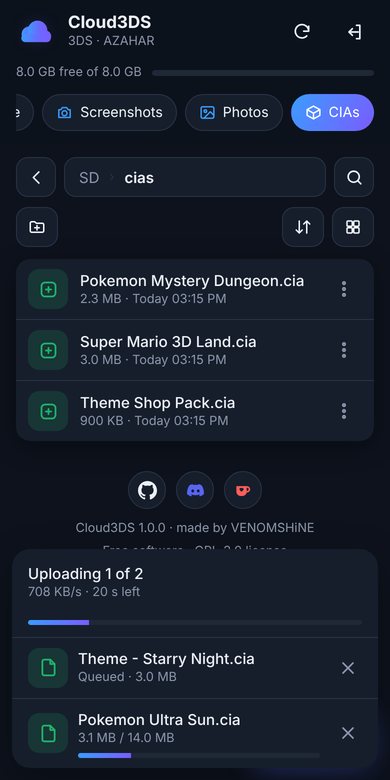
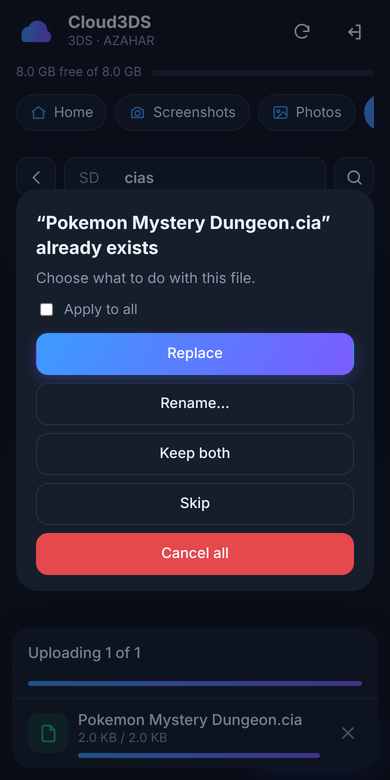
README: funciones y capturas de la 1.1.0
Añade al README las funciones nuevas (actualizaciones, copiar y mover,
conflictos, carpetas destacadas y del sistema, nombre real de los
dispositivos, QR minimizable), los controles nuevos (SELECT, X en
Dispositivos), los paquetes de devkitPro que hacen falta ahora y los
archivos nuevos del código. Capturas rehechas en inglés con la 1.1.0; la de
Actividad se cambia por la del QR minimizado durante una subida.

diff --git a/README.md b/README.md
@@ -7,18 +7,18 @@
 <a href='https://ko-fi.com/W3A028X2KV' target='_blank'><img height='36' style='border:0px;height:36px;' src='https://storage.ko-fi.com/cdn/kofi3.png?v=6' border='0' alt='Buy Me a Coffee at ko-fi.com' /></a>
 
 <p align="center">
-  <img src="docs/inicio.png" width="260" alt="Pantalla de inicio con el QR, la dirección y el PIN">
+  <img src="docs/inicio.png" width="260" alt="Pantalla de inicio con el QR, la dirección, el PIN y la actividad">
   <img src="docs/subida.png" width="260" alt="Subida en curso vista en la consola">
-  <img src="docs/actividad.png" width="260" alt="Actividad">
+  <img src="docs/minimizado.png" width="260" alt="El QR minimizado con SELECT y la subida a lo ancho">
 </p>
 <p align="center">
-  <img src="docs/dispositivos.png" width="260" alt="Dispositivos conectados">
+  <img src="docs/dispositivos.png" width="260" alt="Dispositivos con su nombre real">
   <img src="docs/ajustes.png" width="260" alt="Ajustes">
   <img src="docs/acerca.png" width="260" alt="Acerca de, con el QR del Discord">
 </p>
 <p align="center">
-  <img src="docs/web-movil.png" width="200" alt="La SD en el móvil, con las carpetas del sistema protegidas">
-  <img src="docs/web-subidas.png" width="200" alt="Subidas desde el móvil">
+  <img src="docs/web-movil.png" width="200" alt="La SD en el móvil, con carpetas destacadas y las del sistema aparte">
+  <img src="docs/web-subidas.png" width="200" alt="Qué hacer si un archivo ya existe">
 </p>
 
 ## Descargar e instalar
@@ -43,20 +43,25 @@ Necesitas una consola con homebrew (por ejemplo, con [3ds.hacks.guide](https://3
 3. **Desde el PC:** escribe en el navegador la dirección que aparece (por ejemplo `192.168.1.34`) y el **PIN** de 4 cifras.
 4. Listo: navega, sube, descarga y organiza. Cada dispositivo queda recordado; la próxima vez entra solo.
 
+**Actualizaciones:** Cloud3DS busca versiones nuevas al abrirse. Cuando haya una, ve a **Ajustes → Actualizaciones** y pulsa **Actualizar**: la descarga, comprueba que es el archivo original y la instala, sin FBI ni cables.
+
 El móvil o el PC tienen que estar en **la misma red** que la consola. En algunas Wi-Fi públicas los dispositivos no se pueden ver entre sí; ahí no funcionará. Todo se queda en tu red: nada pasa por Internet.
 
 ## Funciones
 
 - **Conectar en un segundo:** QR en la consola para el móvil y dirección + PIN para el PC. El PIN es siempre el mismo para que te lo aprendas; puedes elegir el tuyo o pedir uno al azar en Ajustes. Tras varios intentos fallidos se bloquea un rato.
-- **Dispositivos recordados:** los ves en la consola, con quién está conectado ahora, y puedes **expulsar** a cualquiera; en su navegador aparece al momento que lo desconectaron.
-- **Explorador de la SD** en el navegador: accesos rápidos a **Capturas** (Luma), **Fotos** (cámara), **CIAs**, **Homebrew** y **Partidas** (Checkpoint); lista o cuadrícula con miniaturas; búsqueda y orden por nombre, fecha o tamaño.
-- **Subir arrastrando** archivos sueltos o carpetas enteras, con cola, progreso, velocidad y tiempo restante. Si algo ya existe, eliges **reemplazar**, **conservar ambos** u **omitir**.
-- **Carpeta anterior**, ruta siempre visible y **búsqueda** que se despliega desde la lupa.
+- **Dispositivos con su nombre real:** la consola lo pregunta a la red («Marios-iPhone», «DESKTOP-MARIO»), y si no lo encuentra se ve el modelo («iPhone · Safari»). Puedes renombrarlos desde la consola o desde la web, ver quién está conectado y **desvincular** a cualquiera; en su navegador aparece al momento.
+- **Explorador de la SD** en el navegador: accesos rápidos a **Capturas** (Luma), **Fotos** (cámara), **CIAs**, **Homebrew** y **Partidas** (las copias de Checkpoint o JKSM); lista o cuadrícula con miniaturas; búsqueda y orden por nombre, fecha o tamaño.
+- **Carpetas destacadas:** marca cualquier carpeta con uno de seis colores para encontrarla enseguida; sale la primera. Las **carpetas del sistema** van aparte, en su propio grupo plegable.
+- **Subir arrastrando** archivos sueltos o carpetas enteras, con cola, progreso, velocidad y tiempo restante.
+- **Copiar y mover** archivos y carpetas dentro de la SD, también varios a la vez, eligiendo el destino en un selector de carpetas.
+- **Si algo ya existe**, eliges: **reemplazar** (o **combinar**, si es una carpeta), **renombrar**, **conservar ambos**, **omitir** o **cancelar todo**, y puedes aplicarlo a todos de una vez.
 - **Descargar** archivos y ver **fotos** (deslizando entre ellas), **vídeos** y **textos** directamente en el navegador.
 - **Crear carpetas, renombrar y borrar**, también varios a la vez.
 - **Seguro por defecto:** modo **solo lectura** y **carpetas del sistema protegidas** (`Nintendo 3DS`, `3ds`, `luma`, `boot.firm`…): llevan un candado y no se pueden borrar ni renombrar mientras la protección esté activa.
-- **Sin sorpresas:** las subidas se escriben en un temporal y solo se guardan al terminar; si se corta la conexión, no quedan archivos a medias. Avisa si no hay espacio o si el archivo pasa de 4 GB (límite de FAT32).
-- **En la consola:** el QR, la dirección y el PIN siempre a la vista, con las transferencias en directo al lado. Pestañas de **Actividad**, **Dispositivos** y **Ajustes**; en «Acerca de», los QR de GitHub, Discord y Ko-fi.
+- **Sin sorpresas:** las subidas y las copias se escriben en un temporal y solo se guardan al terminar; si se corta, no quedan archivos a medias. Avisa si no hay espacio o si el archivo pasa de 4 GB (límite de FAT32).
+- **En la consola:** el QR, la dirección y el PIN siempre a la vista, con las transferencias en directo al lado. Con **SELECT** el QR se minimiza y deja la pantalla de arriba libre. Pestañas de **Actividad**, **Dispositivos** y **Ajustes**; en «Acerca de», los QR de GitHub, Discord y Ko-fi.
+- **Se actualiza sola:** busca versiones nuevas en GitHub y las instala desde Ajustes, comprobando antes que el archivo es el original (SHA-256). Nunca baja de versión.
 - **Puedes cerrar la tapa:** mientras transfiere, la consola no se suspende y apaga la pantalla.
 - Fecha, hora, Wi-Fi y batería en la pantalla superior. Tema oscuro y claro.
 - Idiomas: **español, inglés y japonés** (o el de la consola). La web usa el idioma del móvil o del PC.
@@ -67,10 +72,12 @@ El móvil o el PC tienen que estar en **la misma red** que la consola. En alguna
 |---|---|
 | **L / R** | Cambiar de pestaña (Actividad, Dispositivos, Ajustes) |
 | **↑ ↓** | Moverse por las listas |
-| **A** | Elegir |
+| **A** | Elegir (en Dispositivos: renombrar) |
+| **X** | Desvincular el dispositivo elegido (en Dispositivos) |
 | **Y** | Borrar el historial (en Actividad) |
 | **B** | Atrás / cancelar |
-| **START** | Salir |
+| **SELECT** | Minimizar o abrir el QR (también con el botón del QR, abajo a la derecha) |
+| **START** | Salir (siempre pregunta) |
 
 Todo se puede hacer también con la pantalla táctil.
 
@@ -85,22 +92,26 @@ Todo se puede hacer también con la pantalla táctil.
 1. Instala [devkitPro](https://devkitpro.org/wiki/Getting_Started) con el paquete *3DS Development*.
 2. Compila:
    ```
-   dkp-pacman -S 3ds-dev
+   dkp-pacman -S 3ds-dev 3ds-curl 3ds-mbedtls
    make
    ```
    Se genera `Cloud3DS.3dsx`.
-3. Para el `.cia`, pon [`bannertool`](https://github.com/carstene1ns/3ds-bannertool) y [`makerom`](https://github.com/3DSGuy/Project_CTR) en el PATH y ejecuta `make cia`.
+3. Para el `.cia`, pon [`bannertool`](https://github.com/carstene1ns/3ds-bannertool) y [`makerom`](https://github.com/3DSGuy/Project_CTR) en el PATH y ejecuta `make cia`. También genera `Cloud3DS.sha256`, que se sube a la release junto al `.cia` y el `.3dsx`: la app lo usa para comprobar las actualizaciones.
 
 ```
 source/   código de la app
   main.c          arranque, bucle principal e interfaz de la consola
   server.c        servidor web: la página y la API de archivos
   fsx.c           operaciones de la SD
+  ops.c           copiar y mover dentro de la SD
+  names.c         nombre real de los dispositivos (mDNS, NetBIOS y el router)
+  update.c        buscar e instalar actualizaciones desde GitHub
   state.c         estado compartido, dispositivos, historial y configuración
   gfx.c ui.c icons.c   gráficos, componentes e íconos
   i18n.c          idiomas (la tabla i18n_table.h se genera con tools/gen_i18n.py)
 web/      página web (se sirve comprimida desde romfs)
 lib/      cJSON, QR Code generator
+romfs/    certificados raíz de Mozilla para HTTPS
 cia/      icono, banner, sonido y configuración del .cia
 tools/    traducciones, icono y banner, sonido del banner y empaquetado del .cia
 tests/    pruebas automáticas en el emulador (API, web y capturas)
@@ -116,9 +127,11 @@ Para añadir o corregir traducciones, edita `tools/i18n_tr.py` y ejecuta `python
 
 **Install:** open **FBI** → *Remote Install* → *Scan QR Code* and scan the QR above, or download `Cloud3DS.cia` / `Cloud3DS.3dsx` from the [latest release](https://github.com/venomshine/Cloud3DS/releases/latest).
 
-**Use:** open Cloud3DS with the console on Wi-Fi. Scan the QR code with your phone's camera, or type the address and PIN shown on the console in your PC's browser (same network). Browse, upload (drag and drop files or whole folders), download, view photos and videos, rename and delete. Devices are remembered and can be removed from the console. The PIN stays the same until you change it (pick your own in Settings). Read-only mode and system-folder protection are on hand, and uploads never leave half-written files behind.
+**Use:** open Cloud3DS with the console on Wi-Fi. Scan the QR code with your phone's camera, or type the address and PIN shown on the console in your PC's browser (same network). Browse, upload (drag and drop files or whole folders), download, copy and move, view photos and videos, rename and delete. If something already exists, choose to replace (or merge folders), rename, keep both, skip or cancel all. Highlight folders with a color, and system folders are shown in their own group. Devices show their real name when the network provides it, can be renamed and unpaired from the console. Press SELECT to minimize the QR card. The PIN stays the same until you change it (pick your own in Settings). Read-only mode and system-folder protection are on hand, and uploads and copies never leave half-written files behind.
 
-**Build:** devkitPro with `3ds-dev`, then `make` (or `make cia` with bannertool and makerom).
+**Updates:** Cloud3DS checks GitHub for new versions when it opens. Go to **Settings → Updates** to download, verify (SHA-256) and install the new one without FBI.
+
+**Build:** devkitPro with `3ds-dev 3ds-curl 3ds-mbedtls`, then `make` (or `make cia` with bannertool and makerom, which also creates `Cloud3DS.sha256` for the release).
 
 Bugs and ideas: [issues](https://github.com/venomshine/Cloud3DS/issues) or [Discord](https://discord.com/invite/yVKp8JwV4e).
 
@@ -139,4 +152,4 @@ Cloud3DS es software libre bajo la **[GNU GPL v3](LICENSE)** con términos adici
 
 *License: GNU GPL v3 with additional attribution terms — see [NOTICE.md](NOTICE.md).*
 
-Incluye cJSON (MIT) y QR Code generator de Project Nayuki (MIT), que conservan sus licencias.
+Incluye cJSON (MIT), QR Code generator de Project Nayuki (MIT), libcurl (curl), Mbed TLS (Apache-2.0) y los certificados raíz de Mozilla (MPL-2.0), que conservan sus licencias.
